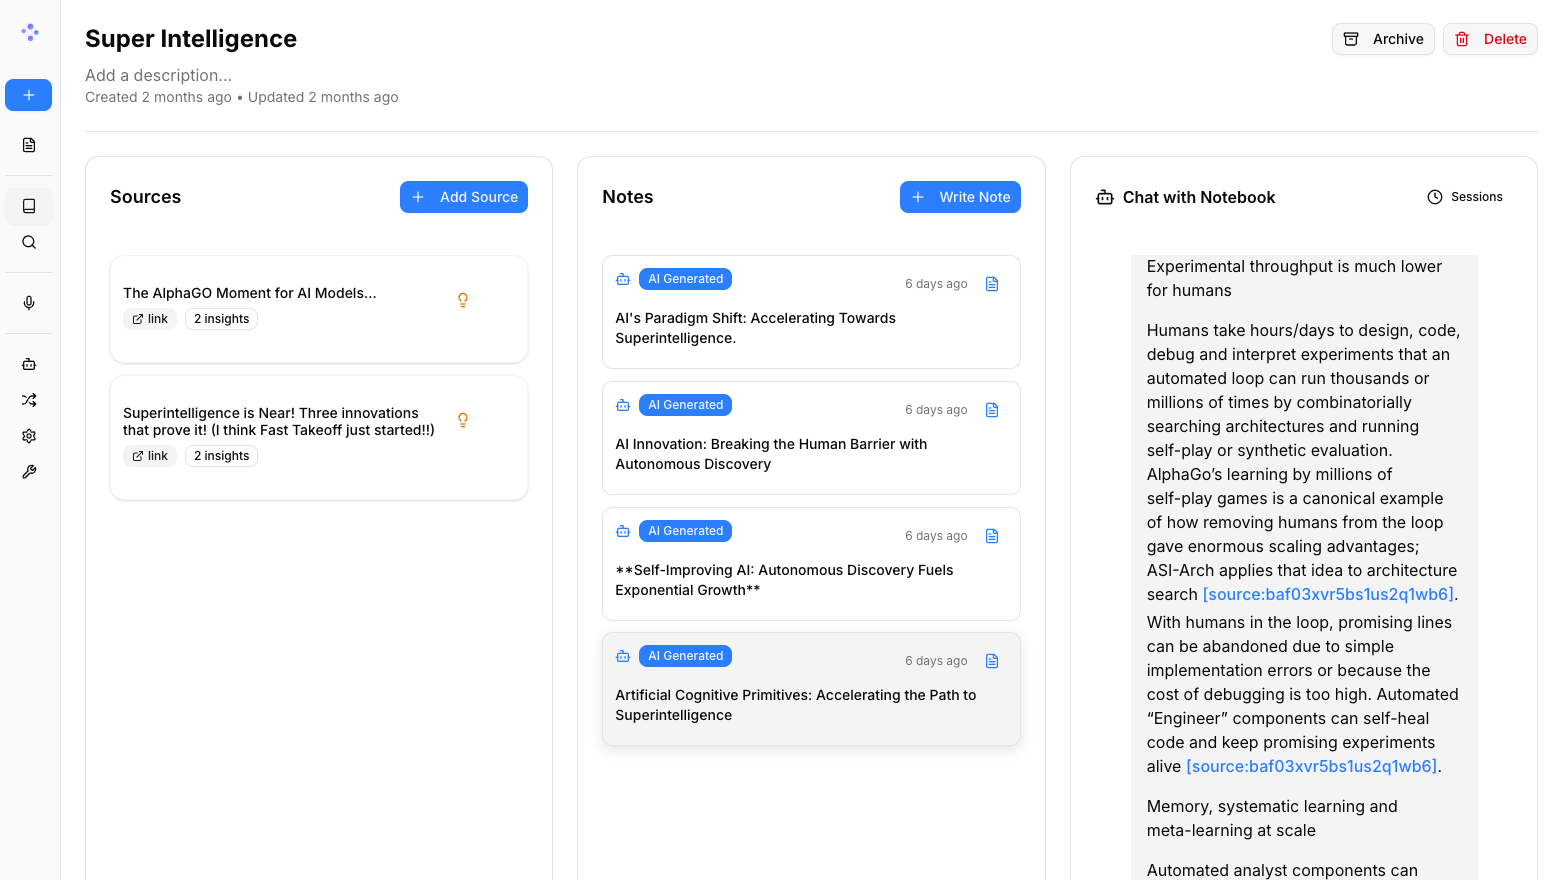
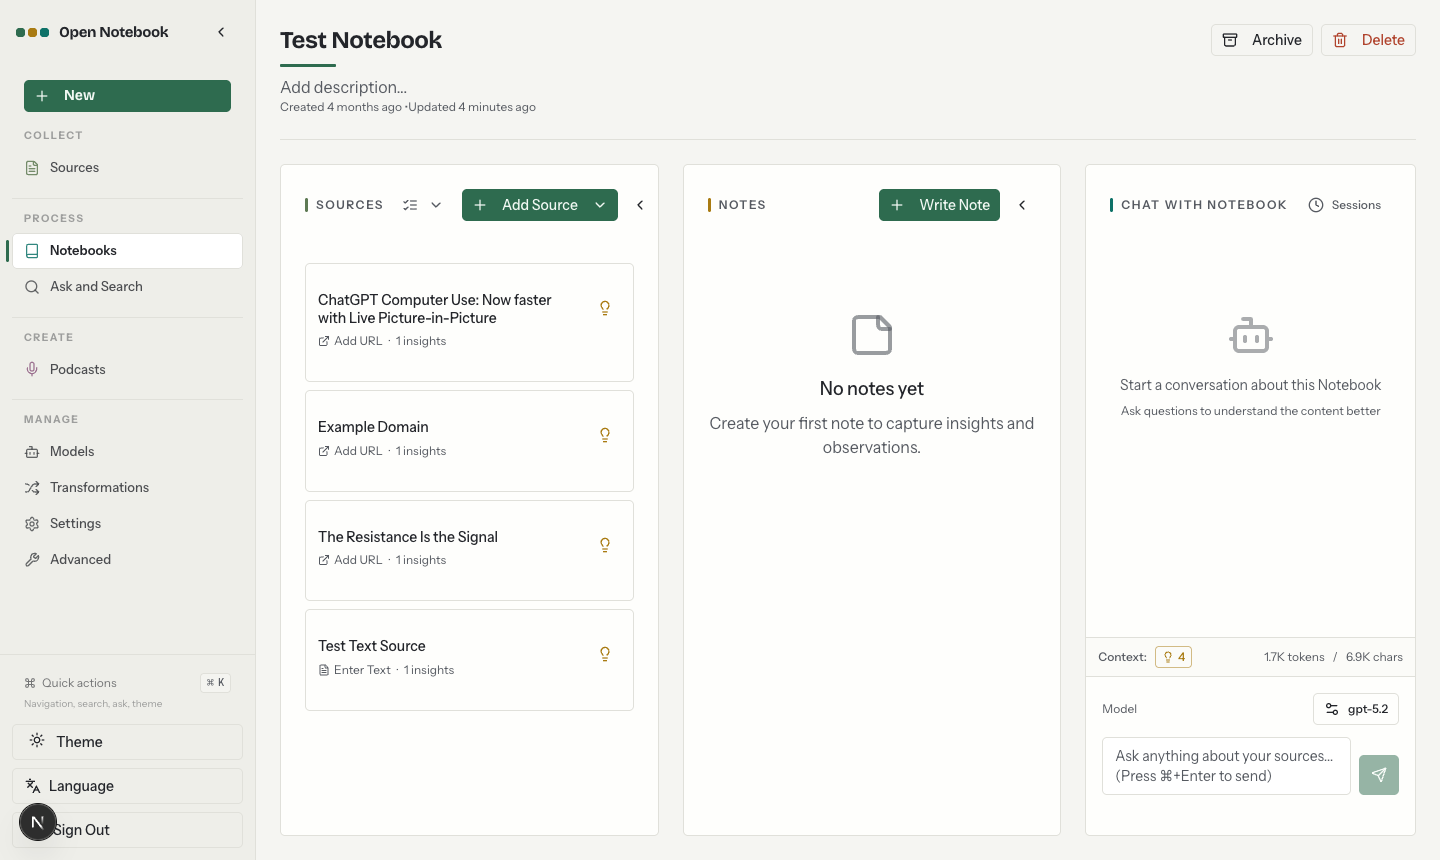
docs: design-system ADR, contributor styling rule, refreshed README brand (#1223)
* docs: design-system decision record, contributor styling rule, refreshed brand assets

- ADR-008: visual identity as a token contract in globals.css, reviewed
  through /dev/design (laws, dark-mode resolution constraint, hex
  rationale, alternatives)
- frontend/AGENTS.md: hard rule — styling via semantic tokens only, no
  raw palette classes or hand-written dark: twins
- README: new Quiet Green hero mark and a current workspace screenshot
  replacing the pre-redesign UI; drop a dead image reference

* docs: renumber design-token record to ADR-009 and index it

ADR-008 was taken by the notebook-scoped-search record (#1331) after this
branch was opened. Renames the file, updates the frontend/AGENTS.md link
and adds the missing index row.

Claude-Session: https://claude.ai/code/session_01NnMHW3qrSc8Nhi7xTPfZuv

* docs: renumber the design-token ADR to 011 and index ADR-009

ADR-009 was taken by the PBKDF2 credential record (#1360), which also
never got its row in decisions/README.md; ADR-010 is reserved for the
source-chat checkpointer bridge (#1332). Update the frontend/AGENTS.md
link accordingly.

Claude-Session: https://claude.ai/code/session_01ScFn54FhBq3cvVbcbQJjBZ

---------

diff --git a/docs/7-DEVELOPMENT/decisions/ADR-011-design-token-system.md b/docs/7-DEVELOPMENT/decisions/ADR-011-design-token-system.md
@@ -1,0 +1,33 @@
+# ADR-011: Visual identity is a token contract in globals.css, reviewed through /dev/design
+
+- **Status**: Accepted
+- **Date**: 2026-07
+- **Related**: Discussion #1202 (community co-design), #1218 (foundation), #1220 (screen reskin), [frontend rules](../../7-DEVELOPMENT/frontend.md)
+
+## Context
+
+The 2026 redesign ("Quiet Green", co-designed with the community in Discussion #1202) replaced the stock shadcn theme with a product-specific visual identity. Before it, colors were scattered across components as raw Tailwind palette classes (`text-red-600`, `bg-amber-50`), each with hand-written `dark:` twins — visually inconsistent, semantically meaningless, and expensive to change. The redesign also pre-designed Stage-2 UX (citations, per-source context states, content-type identity) that needs colors with *meaning*, not decoration.
+
+## Decision
+
+**All visual identity lives as a layered custom-property token system in `frontend/src/app/globals.css`. Components consume semantic tokens only — raw palette classes are banned. `/dev/design` is the living reference.**
+
+- **Layers**: raw palette (fern, sage, gold, teal, plum, mauve, slate, violet, clay) → semantic slots (surfaces, ink ramp, hairlines, action, danger, warn) → product vocabularies: content-type hues (`--type-*`), evidence/citation classes (`--cite-*`), context states (`--ctx-*`). The product vocabularies are canonized now even where nothing consumes them yet, so Stage-2 features and community PRs share one contract.
+- **The laws** (enforced in review): fern acts · teal speaks (the AI/system voice) · red destroys, and only destroys · warn is clay, never an action hue · color never washes a reading surface · hairlines separate, popovers own the only real shadow · geometry is squared (4–6px) · mono is for data, not prose.
+- **Dark mode** overrides only the raw layers on `.dark`; every alias re-resolves via `var()`. This works **only** because the `dark` class sits on the document root (`theme-store` behavior). CSS custom properties resolve where they are *declared*, so a nested `.dark` wrapper inherits already-resolved light values — never theme a subtree.
+- **Values are hex**, kept 1:1 with the validated design spec (a pixel-diff re-application test against the design mockups reached 0.000% visible difference). Converting to oklch would reintroduce drift for zero benefit.
+- **`/dev/design`** (dev-only route, 404 in production) renders every token and primitive in both themes. It is the acceptance reference for visual PRs and the regression detector: screen-level PRs must leave it byte-identical.
+
+## Alternatives considered
+
+- **Keep per-component palette classes** — rejected: the status quo that produced the inconsistency; every rebrand becomes a 38-file sweep (we did exactly one and never want another).
+- **A theming library / CSS-in-JS tokens** — rejected: Tailwind v4 `@theme` already bridges custom properties to utilities; adding a runtime dependency contradicts the lean posture.
+- **Full design-system tooling (Storybook, Figma library, published npm package)** — rejected as over-engineering for a single-app project; `/dev/design` gives the same review value at near-zero maintenance cost.
+- **oklch values (shadcn convention)** — rejected: fidelity to the pixel-diff-validated spec wins over convention; the file documents this so nobody "fixes" it later.
+
+## Consequences
+
+- Contributors must use token utilities (`text-destructive`, `bg-warn-tint`, `text-type-video`…) — see the styling rule in [frontend/AGENTS.md](../../../frontend/AGENTS.md). A PR reintroducing `text-red-600` is a review reject.
+- `slate` and `violet` are exposed to Tailwind as `slate-hue`/`violet-hue` to avoid colliding with Tailwind's built-in palettes.
+- Rebrands and theme tweaks are token edits, verified in `/dev/design`, instead of app-wide sweeps.
+- Stage-2 features consume `--cite-*`/`--ctx-*` without new color decisions; the vocabulary already exists.

diff --git a/frontend/AGENTS.md b/frontend/AGENTS.md
@@ -12,6 +12,7 @@ Normative rules for working on the Next.js frontend. Architecture and flow walkt
 ## Hard rules
 
 - **i18n is mandatory**: every UI string goes through `t('section.key')` and the key must exist in **all locales** under `src/lib/locales/` (currently 14; en-US is the reference). Missing keys fall back to en-US silently — keep locales in sync. Each non-en-US locale ends with `satisfies TranslationShape` (type derived from en-US), so a missing/extra key fails `tsc`; the parity test (`src/lib/locales/index.test.ts`) checks the same at runtime.
+- **Styling goes through design tokens** ([ADR-011](../docs/7-DEVELOPMENT/decisions/ADR-011-design-token-system.md)): use semantic utilities (`text-destructive`, `bg-warn-tint`, `text-teal`, `text-type-video`, …) defined in `src/app/globals.css` — never raw Tailwind palette classes (`text-red-600`, `bg-amber-50`) and never hand-written `dark:` color twins (tokens re-resolve per theme). The laws: fern acts, teal is the AI voice, red only destroys, warn is clay, color never washes a reading surface. `/dev/design` (dev-only route) renders every token and primitive in both themes — it's the visual reference, and screen-level PRs must not change it.
 - All requests go through `apiClient` (`src/lib/api/client.ts`); never create a second axios instance. Auth token is auto-added from localStorage key `auth-storage`.
 - Data fetching uses TanStack Query hooks in `src/lib/hooks/` with `QUERY_KEYS`; mutations invalidate caches and show toasts (sonner). Follow the existing hook shape.
 - FormData requests: nested objects/arrays must be `JSON.stringify`-ed before appending; the interceptor strips Content-Type so the browser sets the multipart boundary — don't re-add it.

diff --git a/docs/7-DEVELOPMENT/decisions/README.md b/docs/7-DEVELOPMENT/decisions/README.md
@@ -50,5 +50,7 @@ What this makes easier, what it makes harder, what to watch. (bullets)
 | [ADR-006](ADR-006-migration-granularity.md) | Migration granularity follows merge granularity, not release granularity | Accepted |
 | [ADR-007](ADR-007-optin-runtimes.md) | Heavy extraction runtimes (Docling, Crawl4AI local) are opt-in, installed at startup | Accepted |
 | [ADR-008](ADR-008-notebook-scoped-search.md) | Notebook scope is an optional filter on the existing search functions | Accepted |
+| [ADR-009](ADR-009-pbkdf2-credential-encryption.md) | PBKDF2 credential key derivation with versioned ciphertext | Accepted |
+| [ADR-011](ADR-011-design-token-system.md) | Visual identity is a token contract in globals.css, reviewed through /dev/design | Accepted |
 | [PDR-001](PDR-001-single-user-first.md) | Single-user first; don't preclude multi-user | Accepted |
 | [PDR-002](PDR-002-provider-agnostic-core.md) | Provider-agnostic core by default | Accepted |

diff --git a/README.md b/README.md
@@ -383,7 +383,6 @@ Open Notebook is MIT licensed. See the [LICENSE](LICENSE) file for details.
 [license-url]: https://github.com/lfnovo/open-notebook/blob/master/LICENSE.txt
 [linkedin-shield]: https://img.shields.io/badge/-LinkedIn-black.svg?style=for-the-badge&logo=linkedin&colorB=555
 [linkedin-url]: https://linkedin.com/in/lfnovo
-[product-screenshot]: images/screenshot.png
 [Next.js]: https://img.shields.io/badge/Next.js-000000?style=for-the-badge&logo=next.js&logoColor=white
 [Next-url]: https://nextjs.org/
 [React]: https://img.shields.io/badge/React-61DAFB?style=for-the-badge&logo=react&logoColor=black
